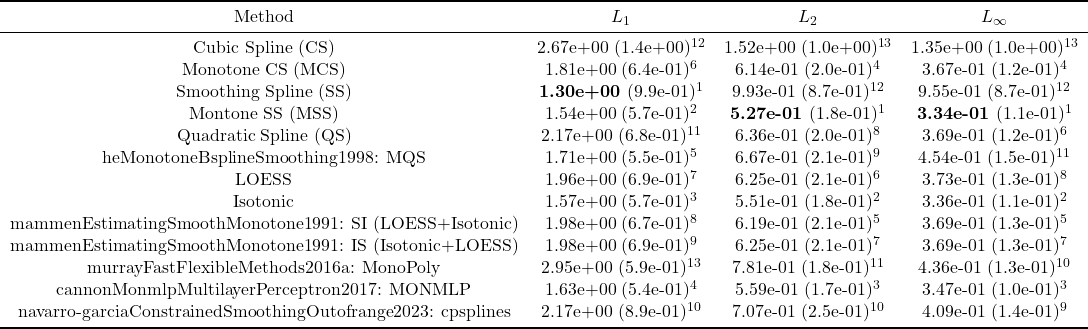
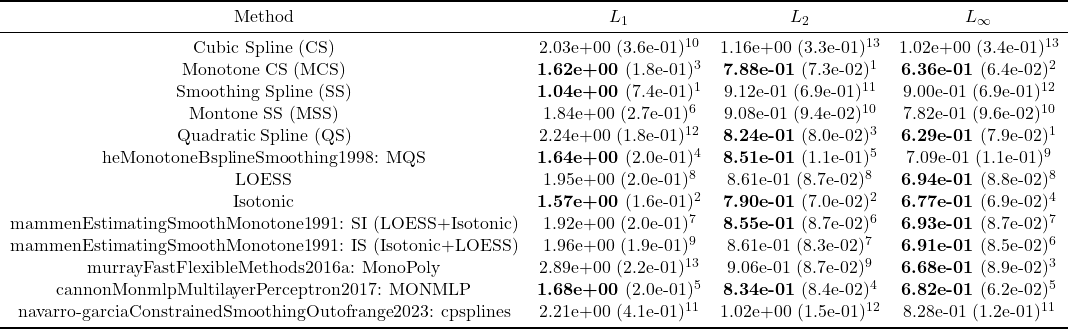
new res with nfold=16

diff --git a/output/real/res10.tex b/output/real/res10.tex
@@ -2,18 +2,18 @@
 \toprule
 Method&$L_1$&$L_2$&$L_\infty$\tabularnewline
 \midrule
-Cubic Spline (CS)& 2.67e+00 (1.4e+00)\textsuperscript{12}& 1.52e+00 (1.0e+00)\textsuperscript{13}& 1.35e+00 (1.0e+00)\textsuperscript{13}\tabularnewline
-Monotone CS (MCS)& 1.81e+00 (6.4e-01)\textsuperscript{6}& 6.14e-01 (2.0e-01)\textsuperscript{4}& 3.67e-01 (1.2e-01)\textsuperscript{4}\tabularnewline
-Smoothing Spline (SS)& \textbf{1.30e+00} (9.9e-01)\textsuperscript{1}& 9.93e-01 (8.7e-01)\textsuperscript{12}& 9.55e-01 (8.7e-01)\textsuperscript{12}\tabularnewline
-Montone SS (MSS)& 1.54e+00 (5.7e-01)\textsuperscript{2}& \textbf{5.27e-01} (1.8e-01)\textsuperscript{1}& \textbf{3.34e-01} (1.1e-01)\textsuperscript{1}\tabularnewline
-Quadratic Spline (QS)& 2.17e+00 (6.8e-01)\textsuperscript{11}& 6.36e-01 (2.0e-01)\textsuperscript{8}& 3.69e-01 (1.2e-01)\textsuperscript{6}\tabularnewline
-\textcite{heMonotoneBsplineSmoothing1998}: MQS& 1.71e+00 (5.5e-01)\textsuperscript{5}& 6.67e-01 (2.1e-01)\textsuperscript{9}& 4.54e-01 (1.5e-01)\textsuperscript{11}\tabularnewline
-LOESS& 1.96e+00 (6.9e-01)\textsuperscript{7}& 6.25e-01 (2.1e-01)\textsuperscript{6}& 3.73e-01 (1.3e-01)\textsuperscript{8}\tabularnewline
-Isotonic& 1.57e+00 (5.7e-01)\textsuperscript{3}& 5.51e-01 (1.8e-01)\textsuperscript{2}& 3.36e-01 (1.1e-01)\textsuperscript{2}\tabularnewline
-\textcite{mammenEstimatingSmoothMonotone1991}: SI (LOESS+Isotonic)& 1.98e+00 (6.7e-01)\textsuperscript{8}& 6.19e-01 (2.1e-01)\textsuperscript{5}& 3.69e-01 (1.3e-01)\textsuperscript{5}\tabularnewline
-\textcite{mammenEstimatingSmoothMonotone1991}: IS (Isotonic+LOESS)& 1.98e+00 (6.9e-01)\textsuperscript{9}& 6.25e-01 (2.1e-01)\textsuperscript{7}& 3.69e-01 (1.3e-01)\textsuperscript{7}\tabularnewline
-\textcite{murrayFastFlexibleMethods2016a}: MonoPoly& 2.95e+00 (5.9e-01)\textsuperscript{13}& 7.81e-01 (1.8e-01)\textsuperscript{11}& 4.36e-01 (1.3e-01)\textsuperscript{10}\tabularnewline
-\textcite{cannonMonmlpMultilayerPerceptron2017}: MONMLP& 1.63e+00 (5.4e-01)\textsuperscript{4}& 5.59e-01 (1.7e-01)\textsuperscript{3}& 3.47e-01 (1.0e-01)\textsuperscript{3}\tabularnewline
-\textcite{navarro-garciaConstrainedSmoothingOutofrange2023}: cpsplines& 2.17e+00 (8.9e-01)\textsuperscript{10}& 7.07e-01 (2.5e-01)\textsuperscript{10}& 4.09e-01 (1.4e-01)\textsuperscript{9}\tabularnewline
+Cubic Spline (CS)& 2.03e+00 (3.6e-01)\textsuperscript{10}& 1.16e+00 (3.3e-01)\textsuperscript{13}& 1.02e+00 (3.4e-01)\textsuperscript{13}\tabularnewline
+Monotone CS (MCS)& \textbf{1.62e+00} (1.8e-01)\textsuperscript{3}& \textbf{7.88e-01} (7.3e-02)\textsuperscript{1}& \textbf{6.36e-01} (6.4e-02)\textsuperscript{2}\tabularnewline
+Smoothing Spline (SS)& \textbf{1.04e+00} (7.4e-01)\textsuperscript{1}& 9.12e-01 (6.9e-01)\textsuperscript{11}& 9.00e-01 (6.9e-01)\textsuperscript{12}\tabularnewline
+Montone SS (MSS)& 1.84e+00 (2.7e-01)\textsuperscript{6}& 9.08e-01 (9.4e-02)\textsuperscript{10}& 7.82e-01 (9.6e-02)\textsuperscript{10}\tabularnewline
+Quadratic Spline (QS)& 2.24e+00 (1.8e-01)\textsuperscript{12}& \textbf{8.24e-01} (8.0e-02)\textsuperscript{3}& \textbf{6.29e-01} (7.9e-02)\textsuperscript{1}\tabularnewline
+\textcite{heMonotoneBsplineSmoothing1998}: MQS& \textbf{1.64e+00} (2.0e-01)\textsuperscript{4}& \textbf{8.51e-01} (1.1e-01)\textsuperscript{5}& 7.09e-01 (1.1e-01)\textsuperscript{9}\tabularnewline
+LOESS& 1.95e+00 (2.0e-01)\textsuperscript{8}& 8.61e-01 (8.7e-02)\textsuperscript{8}& \textbf{6.94e-01} (8.8e-02)\textsuperscript{8}\tabularnewline
+Isotonic& \textbf{1.57e+00} (1.6e-01)\textsuperscript{2}& \textbf{7.90e-01} (7.0e-02)\textsuperscript{2}& \textbf{6.77e-01} (6.9e-02)\textsuperscript{4}\tabularnewline
+\textcite{mammenEstimatingSmoothMonotone1991}: SI (LOESS+Isotonic)& 1.92e+00 (2.0e-01)\textsuperscript{7}& \textbf{8.55e-01} (8.7e-02)\textsuperscript{6}& \textbf{6.93e-01} (8.7e-02)\textsuperscript{7}\tabularnewline
+\textcite{mammenEstimatingSmoothMonotone1991}: IS (Isotonic+LOESS)& 1.96e+00 (1.9e-01)\textsuperscript{9}& 8.61e-01 (8.3e-02)\textsuperscript{7}& \textbf{6.91e-01} (8.5e-02)\textsuperscript{6}\tabularnewline
+\textcite{murrayFastFlexibleMethods2016a}: MonoPoly& 2.89e+00 (2.2e-01)\textsuperscript{13}& 9.06e-01 (8.7e-02)\textsuperscript{9}& \textbf{6.68e-01} (8.9e-02)\textsuperscript{3}\tabularnewline
+\textcite{cannonMonmlpMultilayerPerceptron2017}: MONMLP& \textbf{1.68e+00} (2.0e-01)\textsuperscript{5}& \textbf{8.34e-01} (8.4e-02)\textsuperscript{4}& \textbf{6.82e-01} (6.2e-02)\textsuperscript{5}\tabularnewline
+\textcite{navarro-garciaConstrainedSmoothingOutofrange2023}: cpsplines& 2.21e+00 (4.1e-01)\textsuperscript{11}& 1.02e+00 (1.5e-01)\textsuperscript{12}& 8.28e-01 (1.2e-01)\textsuperscript{11}\tabularnewline
 \bottomrule
 \end{tabular}

diff --git a/output/real/res16.tex b/output/real/res16.tex
@@ -1,0 +1,19 @@
+\begin{tabular}{cccc}
+\toprule
+Method&$L_1$&$L_2$&$L_\infty$\tabularnewline
+\midrule
+Cubic Spline (CS)& \textbf{1.08e+00} (2.1e-01)\textsuperscript{5}& \textbf{5.87e-01} (1.1e-01)\textsuperscript{3}& \textbf{4.76e-01} (8.3e-02)\textsuperscript{3}\tabularnewline
+Monotone CS (MCS)& \textbf{1.08e+00} (1.9e-01)\textsuperscript{4}& \textbf{5.94e-01} (1.0e-01)\textsuperscript{5}& \textbf{4.89e-01} (8.2e-02)\textsuperscript{4}\tabularnewline
+Smoothing Spline (SS)& \textbf{6.80e-01} (5.8e-01)\textsuperscript{1}& \textbf{6.22e-01} (5.8e-01)\textsuperscript{8}& 6.09e-01 (5.8e-01)\textsuperscript{13}\tabularnewline
+Montone SS (MSS)& \textbf{1.11e+00} (2.1e-01)\textsuperscript{6}& \textbf{5.57e-01} (1.0e-01)\textsuperscript{1}& \textbf{4.43e-01} (8.6e-02)\textsuperscript{1}\tabularnewline
+Quadratic Spline (QS)& 1.33e+00 (1.8e-01)\textsuperscript{12}& \textbf{6.11e-01} (9.9e-02)\textsuperscript{7}& \textbf{4.99e-01} (9.1e-02)\textsuperscript{6}\tabularnewline
+\textcite{heMonotoneBsplineSmoothing1998}: MQS& \textbf{1.11e+00} (2.1e-01)\textsuperscript{7}& 6.88e-01 (1.4e-01)\textsuperscript{12}& 6.03e-01 (1.2e-01)\textsuperscript{12}\tabularnewline
+LOESS& \textbf{1.23e+00} (2.0e-01)\textsuperscript{10}& \textbf{6.46e-01} (1.1e-01)\textsuperscript{11}& 5.39e-01 (1.0e-01)\textsuperscript{10}\tabularnewline
+Isotonic& \textbf{9.71e-01} (1.8e-01)\textsuperscript{2}& \textbf{5.57e-01} (1.1e-01)\textsuperscript{2}& \textbf{4.72e-01} (9.9e-02)\textsuperscript{2}\tabularnewline
+\textcite{mammenEstimatingSmoothMonotone1991}: SI (LOESS+Isotonic)& \textbf{1.22e+00} (1.9e-01)\textsuperscript{9}& \textbf{6.40e-01} (1.1e-01)\textsuperscript{9}& 5.40e-01 (1.0e-01)\textsuperscript{11}\tabularnewline
+\textcite{mammenEstimatingSmoothMonotone1991}: IS (Isotonic+LOESS)& \textbf{1.24e+00} (2.0e-01)\textsuperscript{11}& \textbf{6.44e-01} (1.1e-01)\textsuperscript{10}& 5.35e-01 (1.0e-01)\textsuperscript{9}\tabularnewline
+\textcite{murrayFastFlexibleMethods2016a}: MonoPoly& 1.82e+00 (1.9e-01)\textsuperscript{13}& 6.88e-01 (1.0e-01)\textsuperscript{13}& \textbf{5.17e-01} (9.8e-02)\textsuperscript{8}\tabularnewline
+\textcite{cannonMonmlpMultilayerPerceptron2017}: MONMLP& \textbf{1.04e+00} (1.7e-01)\textsuperscript{3}& \textbf{5.88e-01} (9.8e-02)\textsuperscript{4}& \textbf{4.97e-01} (8.7e-02)\textsuperscript{5}\tabularnewline
+\textcite{navarro-garciaConstrainedSmoothingOutofrange2023}: cpsplines& \textbf{1.17e+00} (2.2e-01)\textsuperscript{8}& \textbf{6.10e-01} (1.1e-01)\textsuperscript{6}& \textbf{5.02e-01} (9.3e-02)\textsuperscript{7}\tabularnewline
+\bottomrule
+\end{tabular}
